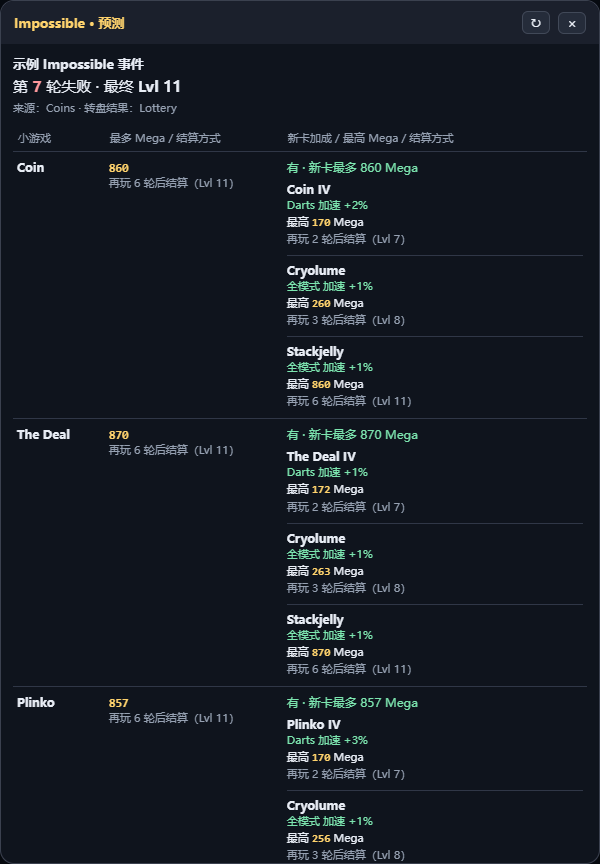
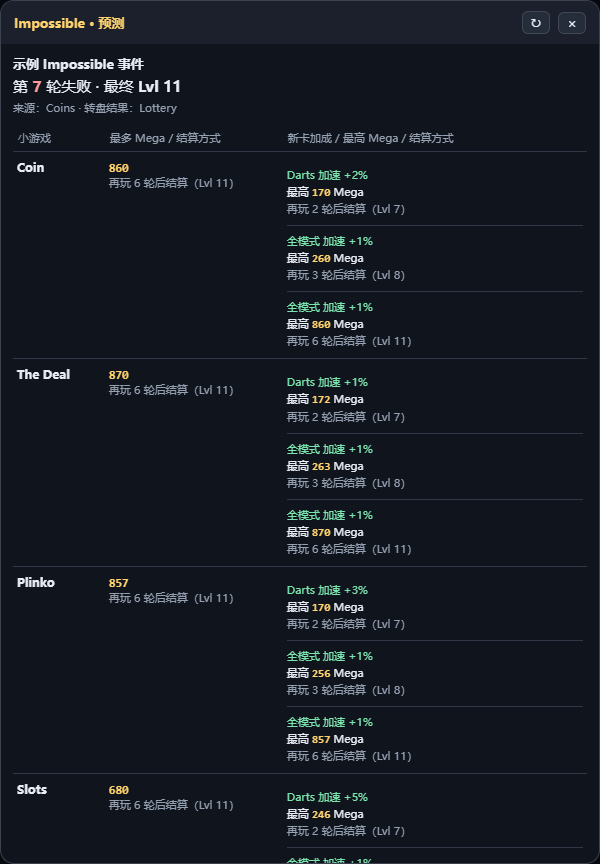
ui: compact new card prediction details

diff --git a/src/userscript/ui.js b/src/userscript/ui.js
@@ -145,9 +145,9 @@ function newCardHtml(card,complete){
     const cards=card.cards.map(item=>{
       const source=item.targetSource||item.source;
       const target=source==='global'?'全模式':SOURCE_NAMES[source]||source;
-      return '<div class="new-card" data-card="'+esc(item.id)+'"><strong>'+esc(item.name)+'</strong><div class="tiny good">'+esc(target)+' 加速 +'+esc(item.percent)+'%</div><div class="tiny">最高 <strong class="amber mono">'+number(item.maxMegas)+'</strong> Mega</div><div class="tiny muted">'+esc(item.operation)+'</div></div>';
+      return '<div class="new-card" data-card="'+esc(item.id)+'"><div class="tiny good">'+esc(target)+' 加速 +'+esc(item.percent)+'%</div><div class="tiny">最高 <strong class="amber mono">'+number(item.maxMegas)+'</strong> Mega</div><div class="tiny muted">'+esc(item.operation)+'</div></div>';
     }).join('');
-    return '<span class="good">'+(card.status==='already_new'?'已获新卡':'有 · 新卡最多 '+number(card.maxMegas)+' Mega')+'</span>'+(!complete?'<div class="tiny amber">（仅模拟范围内）</div>':'')+cards;
+    return (card.status==='already_new'?'<span class="good">已获新卡</span>':'')+(!complete?'<div class="tiny amber">（仅模拟范围内）</div>':'')+cards;
   }
   if(card.status==='already_duplicate')return '<span class="muted">已获重复卡</span>';
   if(card.status==='none')return '<span class="muted">无</span>';

diff --git a/docs/userscript.md b/docs/userscript.md
@@ -13,10 +13,10 @@
 - 事件第几轮失败、自然最终等级。
 - 来源币种，以及不关闭任何扇区时的转盘结果。
 - 每个小游戏能达到的最高 Mega，以及从当前进度再玩几轮、何时停止或等失败结算。
-- 每个小游戏所有可获得的新卡，逐张列出名称、加成模式、加速百分比、获得该卡时的最高 Mega 和对应结算时机；同一张卡只列一次。
+- 每个小游戏所有可获得的新卡，逐张列出加成模式、加速百分比、获得该卡时的最高 Mega 和对应结算时机；同一张卡只列一次。
 - 选择目标转盘币种后，给出要关闭的最少币种组合及代币数。
 
-“最多 Mega”和“拿新卡”是两个目标，各列分别给出操作，不要求它们发生在同一停止点。新卡栏还会汇总获得任意新卡时的最高 Mega；每张卡的最高值只在能获得该卡的停止点中比较。这些结算方案互斥，一次事件只能获得其中一张卡。正反面或红黑任选，不影响这份构建的胜负和数值收益。
+“最多 Mega”和“拿新卡”是两个目标，各列分别给出操作，不要求它们发生在同一停止点。每张卡的最高值只在能获得该卡的停止点中比较。这些结算方案互斥，一次事件只能获得其中一张卡。正反面或红黑任选，不影响这份构建的胜负和数值收益。
 
 失败轮次从本事件第一轮算起；操作中的“再玩 N 轮”从当前进度算起。已经开始的事件只显示实际选定的小游戏；尚未开始时比较四种游戏，未解锁的游戏会标明。
 
